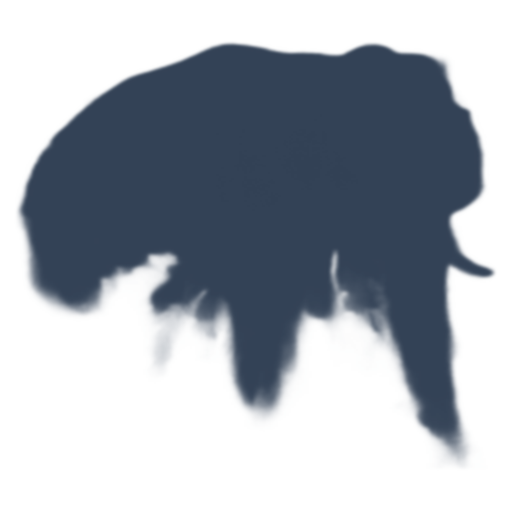
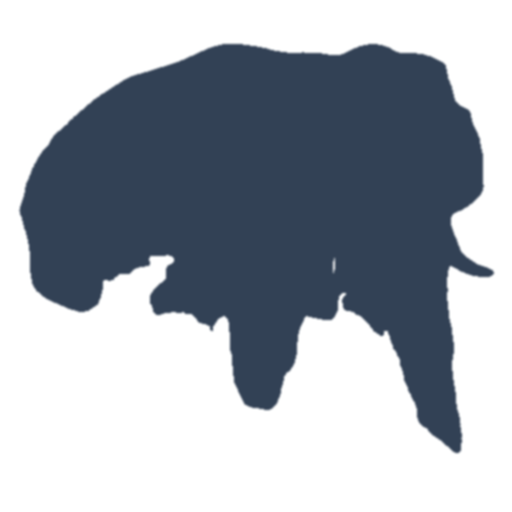
feat(stiker): curate 12 level-2a animal photos
Adds the first tranche of sticker art, plus two pipeline fixes the batch
exposed:

- fetch-stickers.js resolves a photo id through an explicit column-5 URL
  or the Pexels API before falling back to the guessable images.pexels.com
  path. That guess 404s for a good share of photos, which live under a
  nested slug instead, and Pexels answers 403 to server-side page requests
  so the real URL cannot be scraped. Unresolvable rows are now reported
  rather than passed over
- prepare-stickers.js thresholds the matte before blurring. rembg returns
  a soft, partly transparent alpha wherever it is unsure, which rendered
  as a washed-out ghost instead of a silhouette

diff --git a/scripts/fetch-stickers.js b/scripts/fetch-stickers.js
@@ -1,10 +1,19 @@
 /**
  * Downloads curated sticker photos listed in assets/stickers-src/sources.tsv.
  *
- * The TSV holds one row per sticker: `id <TAB> group <TAB> searchUrl <TAB> photoUrl`.
+ * The TSV holds one row per sticker:
+ *   `id <TAB> group <TAB> searchUrl <TAB> photoUrl [<TAB> imageUrl]`
  * Only rows with a photoUrl are fetched; blanks are skipped so the album can be
- * curated incrementally. The Pexels photo id is parsed out of the page URL and the
- * original is pulled straight from images.pexels.com.
+ * curated incrementally.
+ *
+ * Resolving a photo id to its actual image is done in this order:
+ *   1. an explicit imageUrl in column 5
+ *   2. the Pexels API, when PEXELS_API_KEY is set (also records the photographer)
+ *   3. the guessable https://images.pexels.com/photos/{id}/pexels-photo-{id}.jpeg
+ *
+ * Step 3 is a guess and 404s for a good fraction of photos — older uploads live under
+ * a nested slug path instead. Pexels answers 403 to server-side page requests, so the
+ * real URL cannot be scraped; an unresolvable row is reported rather than skipped.
  *
  * Skip-if-exists: an already-downloaded id is left alone, so re-running is cheap.
  * Provenance is recorded in assets/stickers-src/credits.json.
@@ -37,17 +46,47 @@ function photoIdFrom(url) {
   return url.match(/-(\d+)\/?(?:[?#].*)?$/)?.[1] ?? null;
 }
 
-/** @returns {{id: string, group: string, search: string, url: string}[]} */
+/** @returns {{id: string, group: string, search: string, url: string, image: string}[]} */
 function parseRows(text) {
   return text
     .split('\n')
     .map((line) => line.trimEnd())
     .filter((line) => line && !line.startsWith('#'))
     .map((line) => {
-      const [id, group, search, url] = line.split('\t');
-      return { id, group, search, url: (url ?? '').trim() };
+      const [id, group, search, url, image] = line.split('\t');
+      return { id, group, search, url: (url ?? '').trim(), image: (image ?? '').trim() };
     })
     .filter((r) => r.id);
+}
+
+/** Ask the Pexels API for a photo's real source URL + photographer. */
+async function viaApi(photoId, key) {
+  const res = await fetch(`https://api.pexels.com/v1/photos/${photoId}`, {
+    headers: { Authorization: key }
+  });
+  if (!res.ok) throw new Error(`API HTTP ${res.status}`);
+  const json = await res.json();
+  return { url: json.src?.large2x ?? json.src?.large ?? json.src?.original, by: json.photographer };
+}
+
+/**
+ * Work out where a photo actually lives. Returns null when only the guessable
+ * pattern was available and it turned out not to exist.
+ */
+async function resolveImage(row, photoId, key) {
+  if (row.image) return { url: row.image, by: undefined };
+
+  if (key) {
+    try {
+      return await viaApi(photoId, key);
+    } catch {
+      // fall through to the guess
+    }
+  }
+
+  const guess = `https://images.pexels.com/photos/${photoId}/pexels-photo-${photoId}.jpeg`;
+  const head = await fetch(`${guess}?w=64`, { method: 'HEAD' });
+  return head.ok ? { url: guess, by: undefined } : null;
 }
 
 async function main() {
@@ -57,6 +96,7 @@ async function main() {
   }
   await mkdir(SRC_DIR, { recursive: true });
 
+  const apiKey = process.env.PEXELS_API_KEY;
   const rows = parseRows(await readFile(TSV, 'utf8'));
   const credits = existsSync(CREDITS) ? JSON.parse(await readFile(CREDITS, 'utf8')) : {};
 
@@ -84,12 +124,26 @@ async function main() {
       continue;
     }
 
-    const src = `https://images.pexels.com/photos/${photoId}/pexels-photo-${photoId}.jpeg?auto=compress&cs=tinysrgb&w=${FETCH_WIDTH}`;
     try {
-      const res = await fetch(src);
+      const resolved = await resolveImage(row, photoId, apiKey);
+      if (!resolved) {
+        problems.push(
+          `${row.id}: photo ${photoId} is not at the guessable URL. Paste its direct ` +
+            `images.pexels.com link into column 5, or set PEXELS_API_KEY.`
+        );
+        continue;
+      }
+      const sep = resolved.url.includes('?') ? '&' : '?';
+      const res = await fetch(`${resolved.url}${sep}auto=compress&cs=tinysrgb&w=${FETCH_WIDTH}`);
       if (!res.ok) throw new Error(`HTTP ${res.status}`);
       await writeFile(dest, Buffer.from(await res.arrayBuffer()));
-      credits[row.id] = { photoId, page: row.url, group: row.group, source: 'pexels' };
+      credits[row.id] = {
+        photoId,
+        page: row.url,
+        group: row.group,
+        source: 'pexels',
+        ...(resolved.by ? { photographer: resolved.by } : {})
+      };
       fetched++;
       console.log(`✓ ${row.id}  (photo ${photoId})`);
     } catch (err) {

diff --git a/scripts/prepare-stickers.js b/scripts/prepare-stickers.js
@@ -63,6 +63,11 @@ async function silhouetteFromCutout(file) {
     .resize(INNER, INNER, { fit: 'contain', background: CLEAR })
     .extend({ top: PAD, bottom: PAD, left: PAD, right: PAD, background: CLEAR })
     .extractChannel('alpha')
+    // Harden the matte before blurring. rembg returns a soft, partially transparent
+    // alpha wherever it is unsure (a tiger in grass, a panda against pale rock), which
+    // renders as a washed-out ghost rather than a silhouette. Threshold first so the
+    // subject is solid, then blur only to soften the cut edge.
+    .threshold(96)
     .blur(1.2)
     .raw()
     .toBuffer({ resolveWithObject: true });
